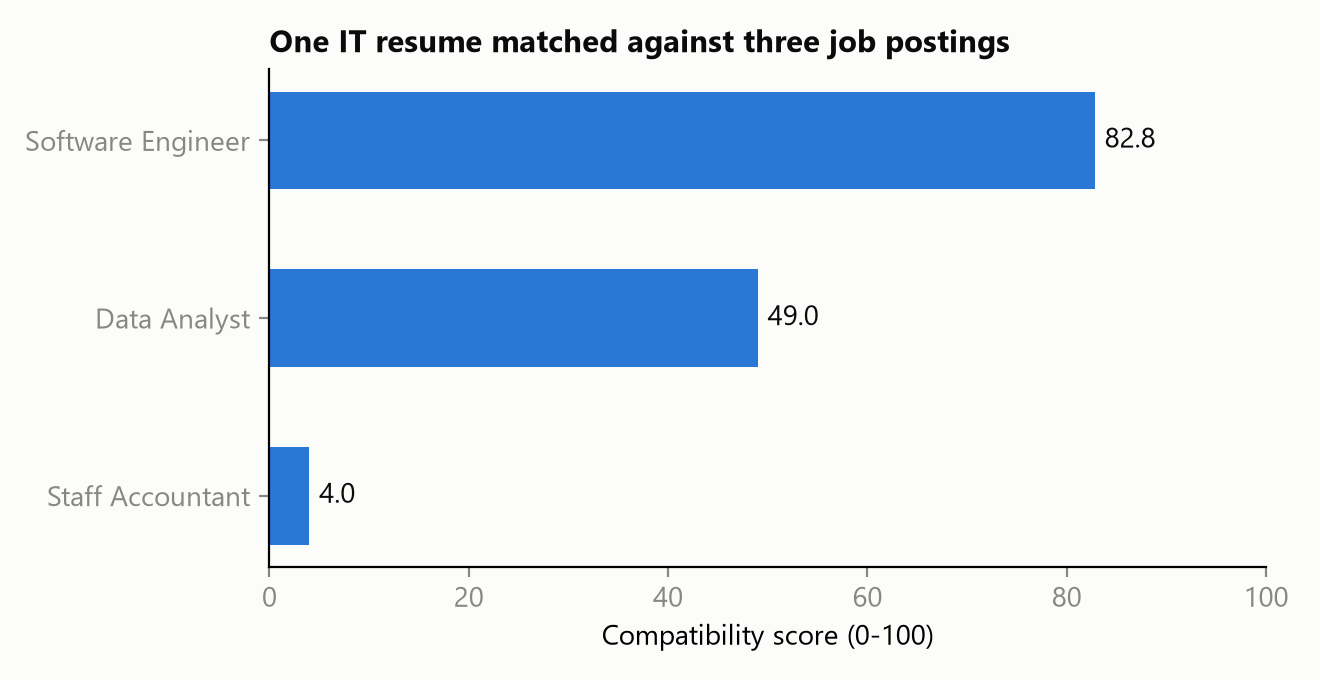
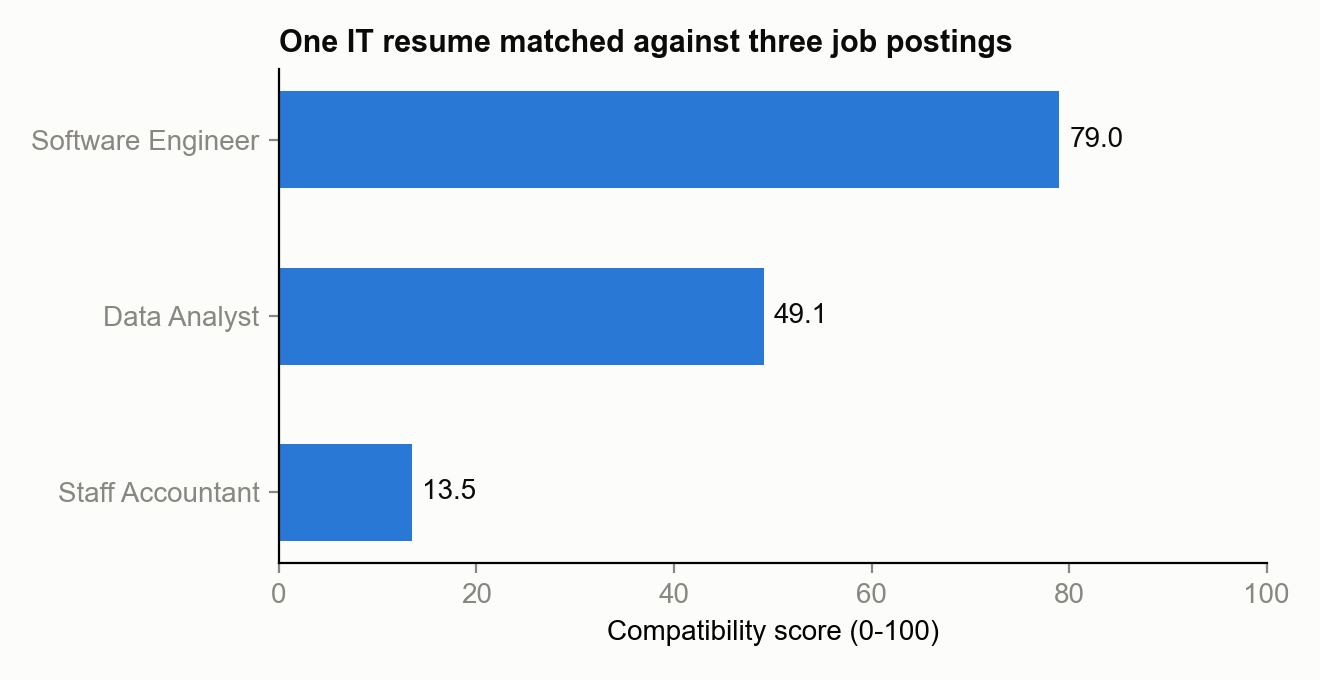
Add SBERT semantic similarity and PDF/DOCX resume ingestion
Blend pre-trained Sentence-BERT cosine similarity into the match score
alongside TF-IDF and skill coverage, and add a resume_matcher/ingest.py
module so demo.py can accept real PDF/DOCX resumes via --resume.

Changed region(s): [[0.0, 0.0309, 0.9939, 0.9574], [0.7765, 0.1235, 0.8697, 0.2779], [0.5591, 0.4015, 0.6212, 0.5559]]

diff --git a/resume_matcher/ingest.py b/resume_matcher/ingest.py
@@ -1,0 +1,63 @@
+"""Turn an uploaded resume file into clean text for the existing pipeline.
+
+Supports the file types a real user would actually upload (PDF, DOCX) plus
+plain text. Output is normalized the same way regardless of source format so
+extract_skills() (resume_matcher/extraction.py) sees text shaped like the
+CSV's Resume_str column, not raw PDF/DOCX layout artifacts.
+"""
+
+import re
+import unicodedata
+from pathlib import Path
+
+from docx import Document
+from pypdf import PdfReader
+
+_WHITESPACE_RE = re.compile(r"[ \t]+")
+
+# common non-ASCII punctuation from PDF/DOCX exports that would otherwise
+# survive NFKD normalization (it only decomposes accented letters, not these)
+_UNICODE_REPLACEMENTS = {
+    "‘": "'", "’": "'",  # curly single quotes
+    "“": '"', "”": '"',  # curly double quotes
+    "–": "-", "—": "-",  # en/em dash
+    "•": "-", "●": "-", "▪": "-", "◦": "-",  # bullets
+}
+
+
+def _normalize_text(text):
+    for src, dst in _UNICODE_REPLACEMENTS.items():
+        text = text.replace(src, dst)
+    text = unicodedata.normalize("NFKD", text).encode("ascii", "ignore").decode("ascii")
+
+    lines = (_WHITESPACE_RE.sub(" ", line).strip() for line in text.splitlines())
+    return "\n".join(line for line in lines if line)
+
+
+def _load_pdf(path):
+    reader = PdfReader(str(path))
+    return "\n".join(page.extract_text() or "" for page in reader.pages)
+
+
+def _load_docx(path):
+    doc = Document(str(path))
+    return "\n".join(p.text for p in doc.paragraphs)
+
+
+def _load_txt(path):
+    return Path(path).read_text(encoding="utf-8")
+
+
+_LOADERS = {".pdf": _load_pdf, ".docx": _load_docx, ".txt": _load_txt}
+
+
+def load_resume(path):
+    """Extract clean text from a .pdf, .docx, or .txt resume file."""
+    path = Path(path)
+    loader = _LOADERS.get(path.suffix.lower())
+    if loader is None:
+        raise ValueError(
+            f"Unsupported resume file type '{path.suffix}': "
+            f"expected one of {sorted(_LOADERS)}"
+        )
+    return _normalize_text(loader(path))

diff --git a/demo.py b/demo.py
@@ -9,6 +9,7 @@ Outputs:
   figures/fig5_demo_output.png
 """
 
+import argparse
 import json
 from pathlib import Path
 
@@ -17,6 +18,7 @@ matplotlib.use("Agg")
 import matplotlib.pyplot as plt
 import pandas as pd
 
+from resume_matcher.ingest import load_resume
 from resume_matcher.matching import ResumeMatcher
 from resume_matcher.recommendation import recommend_edits
 
@@ -46,24 +48,38 @@ def render_text_figure(text, path):
 
 
 def main():
+    parser = argparse.ArgumentParser(description=__doc__)
+    parser.add_argument(
+        "--resume", type=str, default=None,
+        help="Path to a .pdf, .docx, or .txt resume to match instead of the "
+             "built-in demo resume (dataset ID 83816738)",
+    )
+    args = parser.parse_args()
+
     FIGURES.mkdir(exist_ok=True)
     RESULTS.mkdir(exist_ok=True)
 
     df = pd.read_csv(DATA)
     corpus = df["Resume_str"].tolist()
 
-    # a fixed, reproducible test subject: a skill-rich IT resume (dataset ID
-    # 83816738, matches 6 of 8 required skills for the software engineer job)
-    resume_row = df[df["ID"] == 83816738].iloc[0]
-    resume_text = resume_row["Resume_str"]
+    if args.resume:
+        resume_text = load_resume(args.resume)
+        resume_label = f"uploaded file {Path(args.resume).name}"
+    else:
+        # a fixed, reproducible test subject: a skill-rich IT resume (dataset
+        # ID 83816738, matches 6 of 8 required skills for the software
+        # engineer job)
+        resume_row = df[df["ID"] == 83816738].iloc[0]
+        resume_text = resume_row["Resume_str"]
+        resume_label = (f"dataset ID {resume_row['ID']} "
+                        f"(true category: {resume_row['Category']})")
 
     print("Building TF-IDF matcher over the 2,484-resume corpus...")
     matcher = ResumeMatcher(corpus)
 
     lines = []
     lines.append("RESUME ANALYZER AND JOB MATCHER - DEMO")
-    lines.append(f"Test resume: dataset ID {resume_row['ID']} "
-                 f"(true category: {resume_row['Category']})")
+    lines.append(f"Test resume: {resume_label}")
     lines.append("=" * 74)
 
     all_results = {}
@@ -81,6 +97,8 @@ def main():
         lines.append(f"  Skill coverage      : {result['coverage']:.0%}"
                      f"  (cosine {result['cosine']:.3f}, "
                      f"beats {result['percentile']:.0%} of corpus)")
+        lines.append(f"  Semantic similarity : {result['sbert_cos']:.3f}"
+                     f"  (pre-trained Sentence-BERT embedding cosine)")
         lines.append(f"  Required matched    : "
                      f"{', '.join(result['matched_hard']) or '(none)'}")
         lines.append(f"  Required MISSING    : "

diff --git a/resume_matcher/matching.py b/resume_matcher/matching.py
@@ -1,25 +1,32 @@
-"""Matching engine: TF-IDF vector space model + constraint-style skill coverage.
+"""Matching engine: TF-IDF vector space model + constraint-style skill coverage
++ pre-trained Sentence-BERT semantic similarity.
 
-The final compatibility score combines two signals:
+The final compatibility score combines three signals:
 
-1. Skill coverage (weight 0.6): fraction of the job's constraints satisfied,
+1. Skill coverage (weight 0.4): fraction of the job's constraints satisfied,
    with hard (required) constraints weighted 1.0 and soft (preferred)
    constraints weighted 0.5.
-2. Corpus percentile (weight 0.4): where this resume's TF-IDF cosine
+2. Corpus percentile (weight 0.3): where this resume's TF-IDF cosine
    similarity to the job description ranks against every resume in the
    2,484-document corpus. Percentile calibration keeps the raw cosine
    values (which are small in absolute terms) interpretable.
+3. Semantic similarity (weight 0.3): cosine similarity between
+   pre-trained Sentence-BERT embeddings of the resume and job text, which
+   catches paraphrased/lexically-different but semantically equivalent
+   phrasing that TF-IDF misses.
 """
 
 from sklearn.feature_extraction.text import TfidfVectorizer
 from sklearn.metrics.pairwise import cosine_similarity
 
 from .extraction import extract_skills, parse_job_description
+from .semantic import semantic_similarity
 
 HARD_WEIGHT = 1.0
 SOFT_WEIGHT = 0.5
-COVERAGE_WEIGHT = 0.6
-SIMILARITY_WEIGHT = 0.4
+COVERAGE_WEIGHT = 0.4
+SIMILARITY_WEIGHT = 0.3
+SBERT_WEIGHT = 0.3
 
 
 class ResumeMatcher:
@@ -38,6 +45,8 @@ class ResumeMatcher:
         corpus_cosines = cosine_similarity(self.corpus_matrix, job_vec).ravel()
         percentile = float((corpus_cosines < cosine).mean())
 
+        sbert_cos = semantic_similarity(resume_text, job_text)
+
         constraints = parse_job_description(job_text)
         resume_skills = extract_skills(resume_text)
 
@@ -52,13 +61,16 @@ class ResumeMatcher:
                          + SOFT_WEIGHT * len(matched_soft))
         coverage = earned_weight / total_weight if total_weight else 0.0
 
-        score = 100.0 * (COVERAGE_WEIGHT * coverage + SIMILARITY_WEIGHT * percentile)
+        score = 100.0 * (COVERAGE_WEIGHT * coverage
+                         + SIMILARITY_WEIGHT * percentile
+                         + SBERT_WEIGHT * sbert_cos)
 
         return {
             "score": round(score, 1),
             "coverage": round(coverage, 3),
             "cosine": round(cosine, 4),
             "percentile": round(percentile, 3),
+            "sbert_cos": round(sbert_cos, 4),
             "matched_hard": matched_hard,
             "missing_hard": missing_hard,
             "matched_soft": matched_soft,

diff --git a/resume_matcher/semantic.py b/resume_matcher/semantic.py
@@ -1,0 +1,25 @@
+"""Semantic similarity via a pre-trained Sentence-BERT model.
+
+Used strictly as a black-box embedder: the model is downloaded pre-trained
+and never fine-tuned. Any report text describing this component should say
+"pre-trained Sentence-BERT used for sentence embeddings," not that a model
+was trained.
+"""
+
+from sentence_transformers import SentenceTransformer, util
+
+_MODEL_NAME = "all-MiniLM-L6-v2"
+_model = None
+
+
+def _get_model():
+    global _model
+    if _model is None:
+        _model = SentenceTransformer(_MODEL_NAME)
+    return _model
+
+
+def semantic_similarity(resume_text, job_text):
+    model = _get_model()
+    embeddings = model.encode([resume_text, job_text], convert_to_tensor=True)
+    return float(util.cos_sim(embeddings[0], embeddings[1]).item())